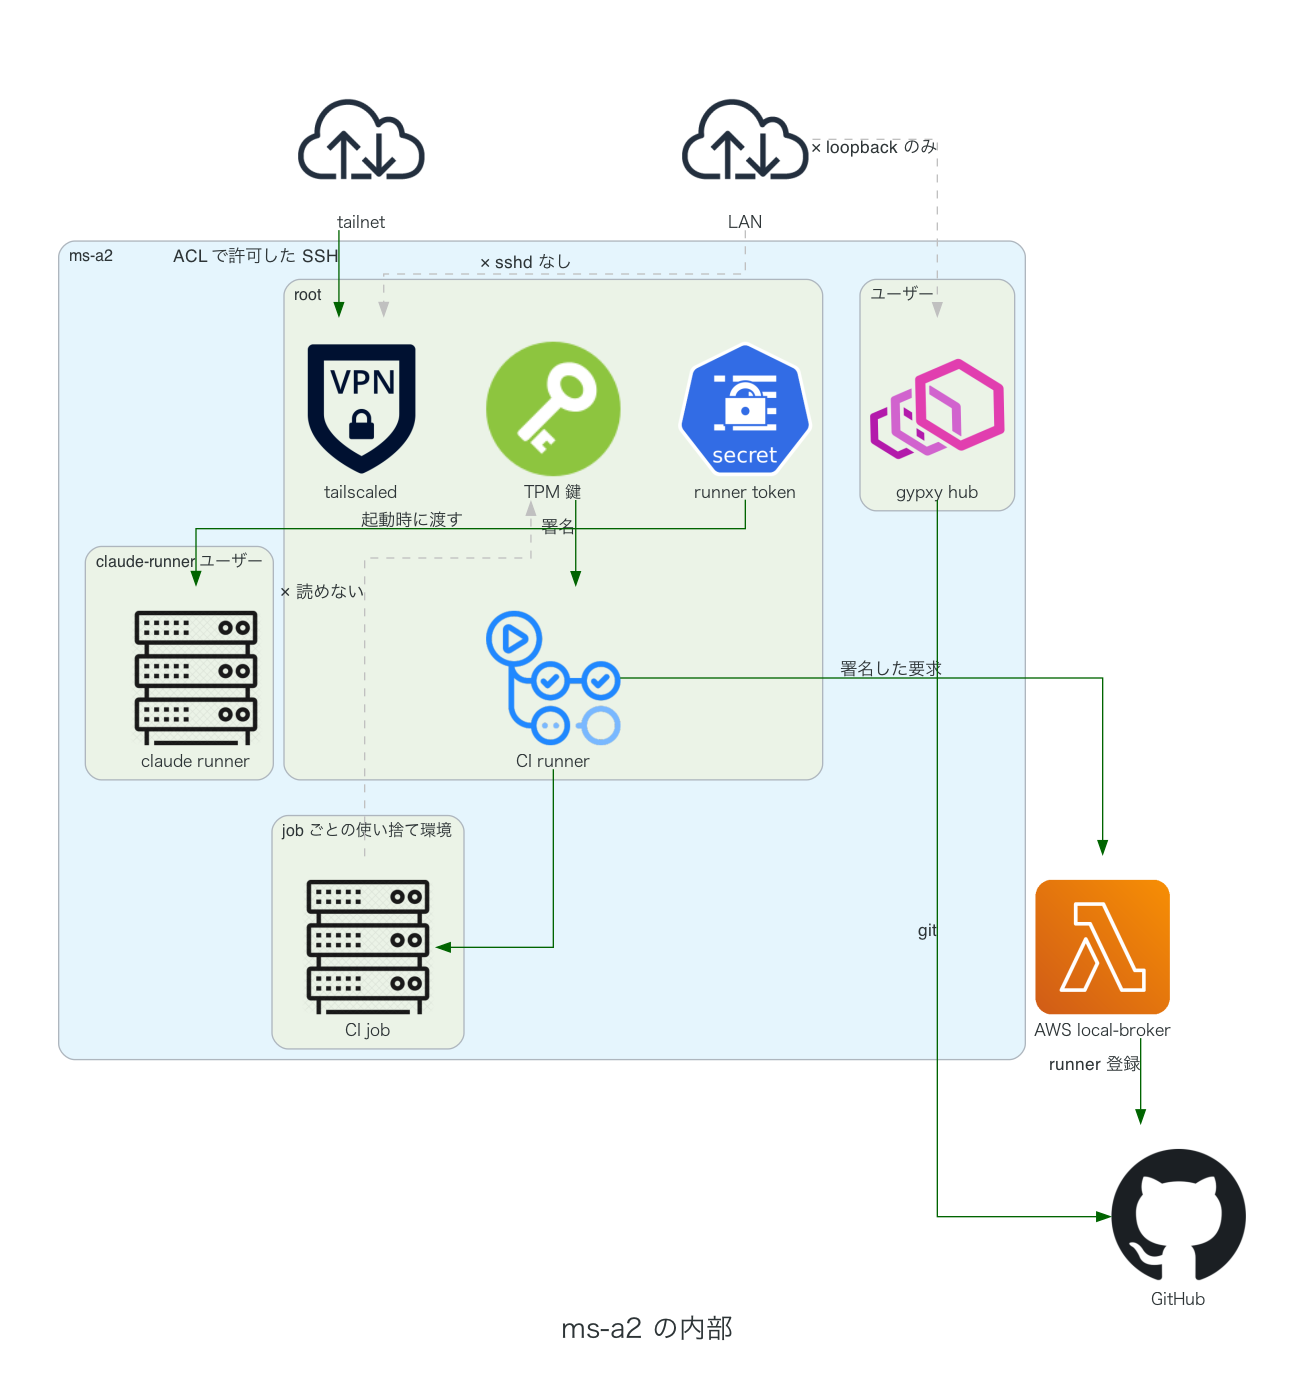
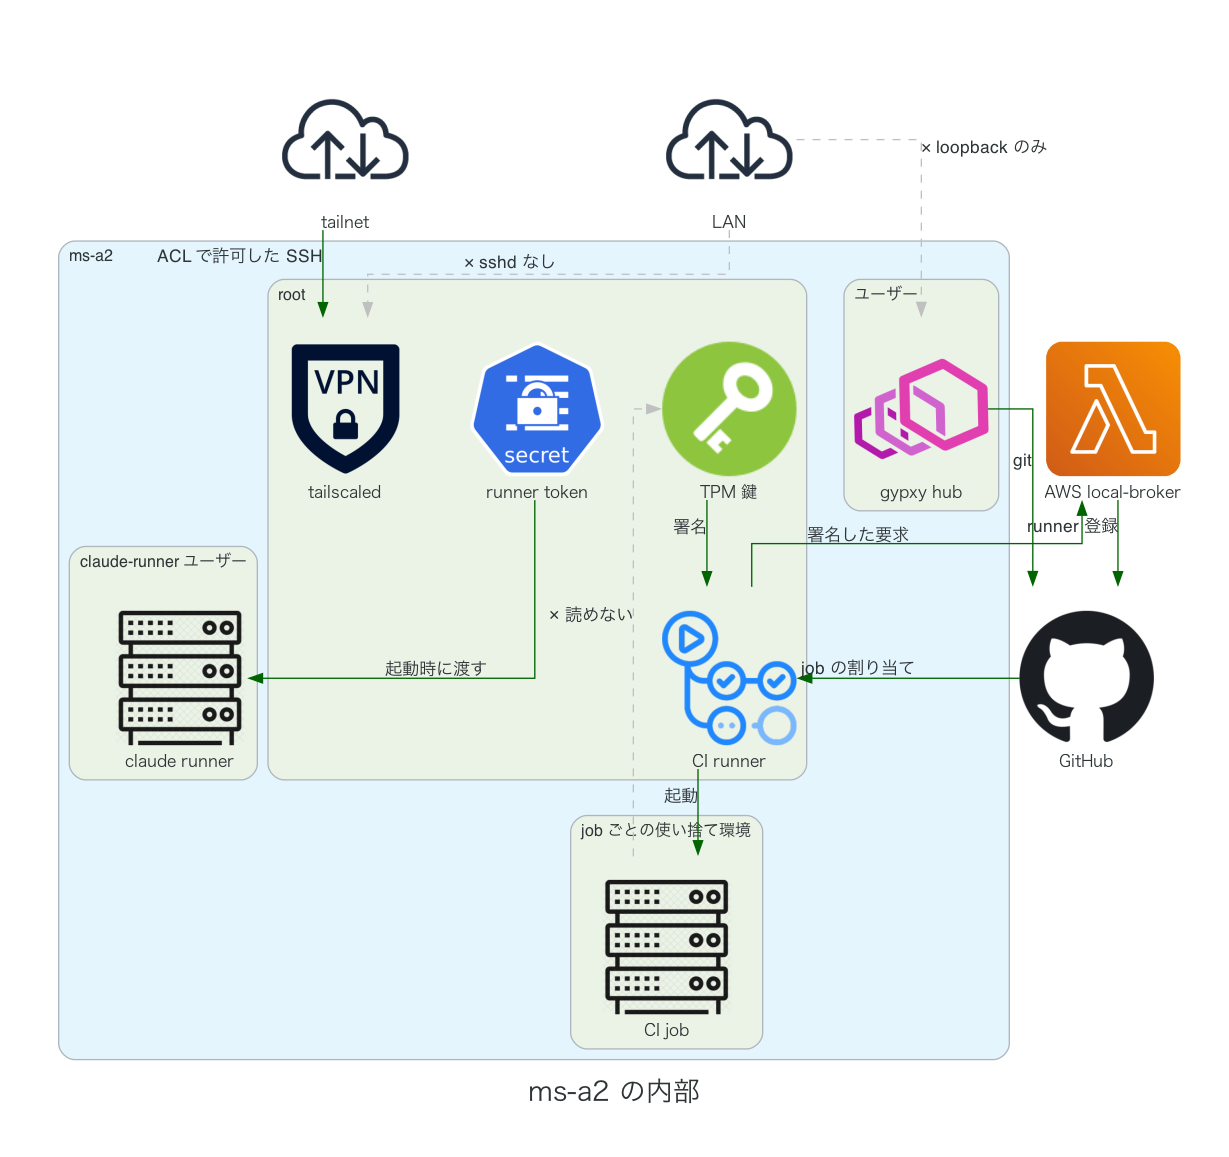
docs: ms-a2 の図に GitHub から CI runner への job の割り当てと、job の起動を描く

Changed region(s): [[0.0309, 0.0622, 0.9585, 0.9646], [0.7111, 0.6534, 0.7421, 0.6845]]

diff --git a/docs/security/device_diagram.py b/docs/security/device_diagram.py
@@ -144,7 +144,8 @@ with diagram("ms-a2"):
     flow(tpm, runner, "署名")
     flow(runner, broker, "署名した要求")
     flow(broker, github, "runner 登録")
-    flow(runner, job)
+    flow(github, runner, "job の割り当て")
+    flow(runner, job, "起動")
     deny(job, tpm, "読めない")
     flow(cenv, crunner, "起動時に渡す")
     flow(hub, github, "git")
